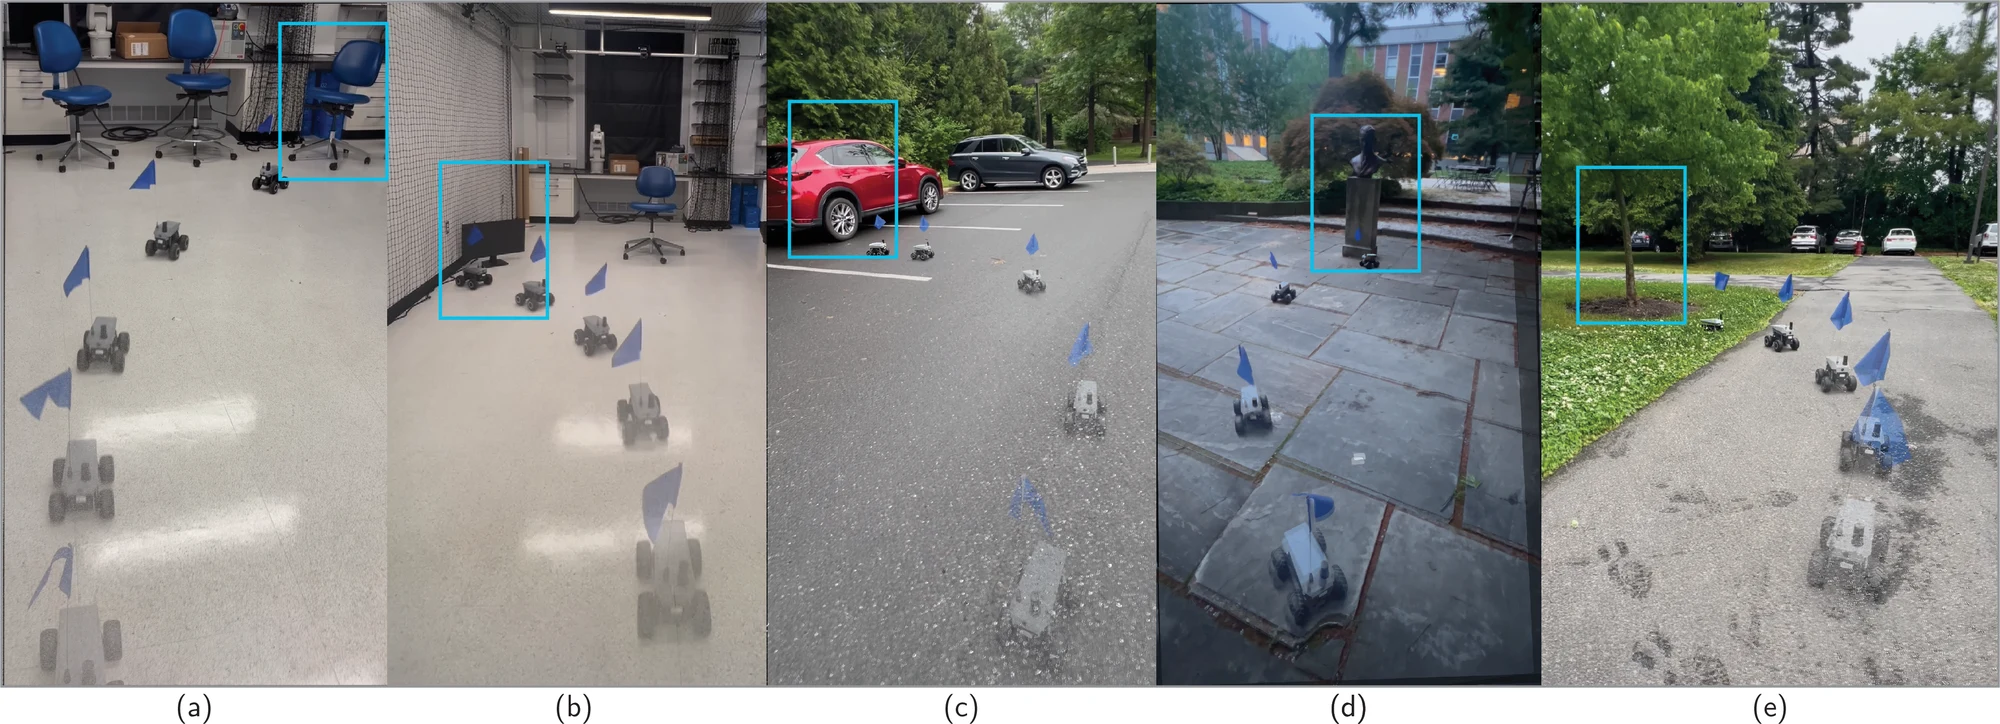
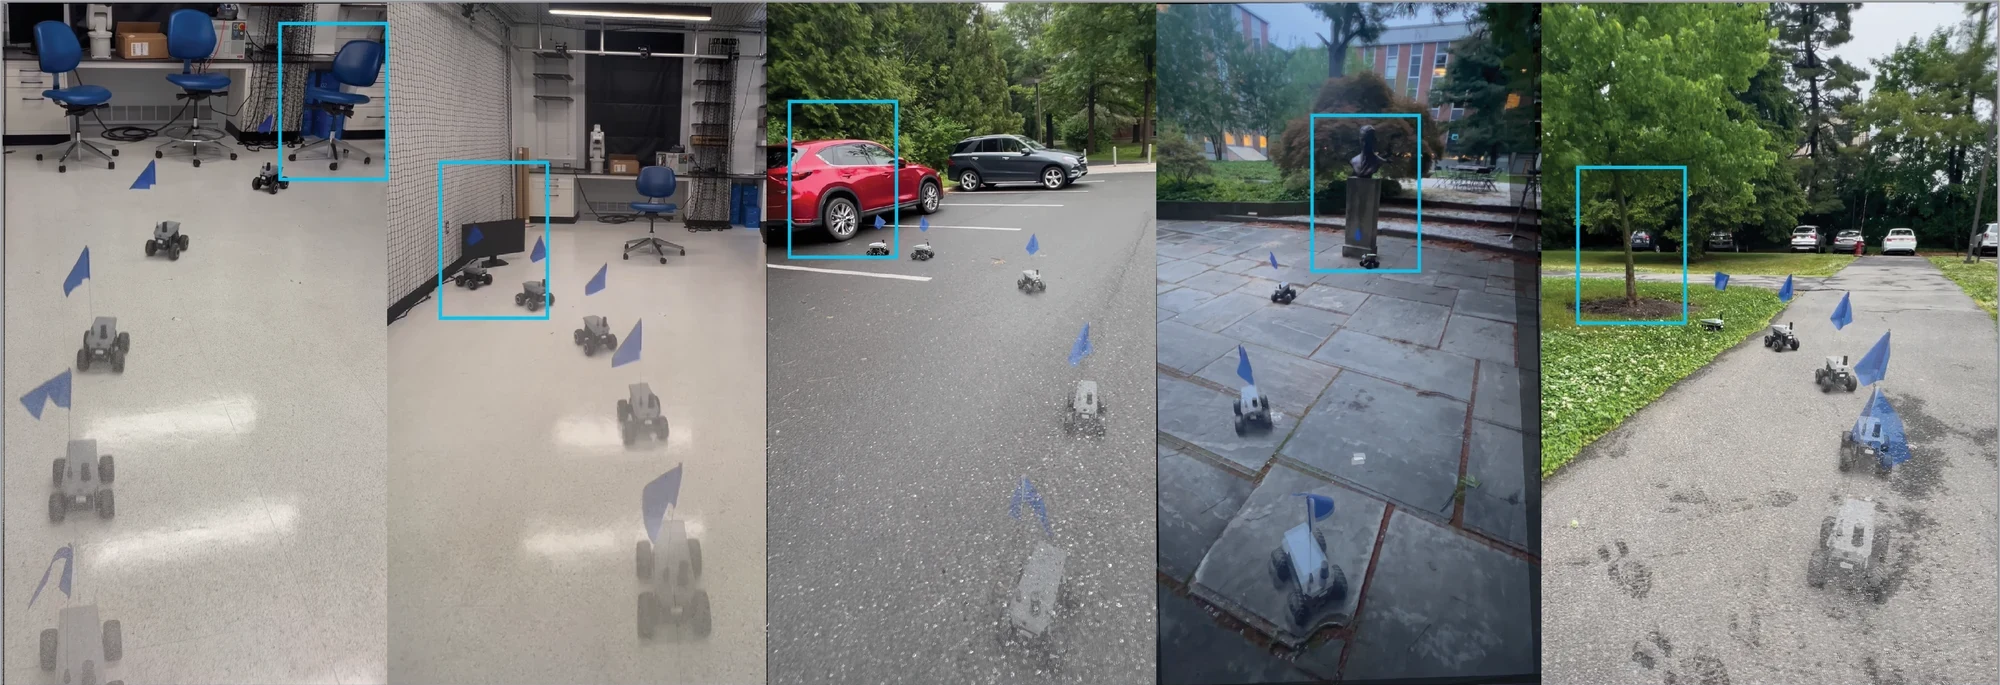
Update figures and playback; prepare GitHub Pages deploy
- Real-world wall and steerability clips autoplay and loop even under
  reduced motion (click / Space still pauses wall clips)
- Steerability: picker above the video instead of beside it; prompt
  composite split into color / direction / object panels
- Reasoning: four new examples (left/right chair, red car, statue)
  in a 2x2 grid; subtitle matches the Task / Perception / Planning fields
- Method: V8 training-overview figure (method_overview.webp)
- Rollout composite: drop the (a)-(e) label strip; reword caption
- Add .nojekyll and document the rsd-nav.github.io deploy in README

diff --git a/index.html b/index.html
@@ -21,7 +21,7 @@
     <link href="https://fonts.googleapis.com/css2?family=Inter:wght@400;500;600;700;800&family=JetBrains+Mono:wght@400;500&display=swap" rel="stylesheet">
     <link rel="stylesheet" href="https://cdnjs.cloudflare.com/ajax/libs/font-awesome/6.0.0/css/all.min.css">
     <link rel="stylesheet" href="https://cdn.jsdelivr.net/gh/jpswalsh/academicons@1/css/academicons.min.css">
-    <link rel="stylesheet" href="static/css/styles.css?v=41">
+    <link rel="stylesheet" href="static/css/styles.css?v=46">
 </head>
 <body id="top">
 
@@ -128,9 +128,9 @@
             <!-- Rollout composites; column widths follow the image aspect ratios so both rows match in height. -->
             <div class="composites">
                 <figure class="figure">
-                    <img src="assets/images/filmstrip.webp" loading="lazy" width="2000" height="725"
+                    <img src="assets/images/filmstrip.webp" loading="lazy" width="2000" height="685"
                          alt="Five time-lapse composites of the rover approaching boxed targets: a blue chair and a monitor indoors, and a red car, a statue and a tree outdoors.">
-                    <figcaption>Rollout composites on indoor (a, b) and outdoor (c&ndash;e) tasks; the box marks the target.</figcaption>
+                    <figcaption>Rollout composites on two indoor (left) and three outdoor (right) tasks; the box marks the target.</figcaption>
                 </figure>
                 <figure class="figure">
                     <img src="assets/images/multistage.webp" loading="lazy" width="2000" height="492"
@@ -341,14 +341,14 @@
             <!-- Static paper figures; column widths follow the image aspect ratios so heights match. -->
             <div class="method-figs">
                 <figure class="figure paper">
-                    <img src="assets/images/motivation.webp" loading="lazy" width="2000" height="818"
+                    <img src="assets/images/motivation.webp" loading="lazy" width="2000" height="822"
                          alt="Diagram: the same VLM acts as student and self-teacher. Both see the camera input; only the self-teacher also receives privileged information. Their outputs are compared, and the resulting paths are drawn toward a red car.">
                     <figcaption>One VLM, two roles: the self-teacher also receives privileged information
                         (the demonstrated trajectory); the student does not.</figcaption>
                 </figure>
                 <figure class="figure paper">
-                    <img src="assets/images/method.webp" loading="lazy" width="2000" height="772"
-                         alt="Training pipeline. Top: the Self-Teacher VLM (Qwen2.5-3B) takes the GT trajectory, a self-teacher prompt and the image with the path drawn on it, and outputs a goal, perception, plan and trajectory. Bottom: the Student VLM (Qwen2.5-3B) takes the raw image, a student prompt and the extracted goal, and outputs perception, plan and trajectory.">
+                    <img src="assets/images/method_overview.webp" loading="lazy" width="2400" height="940"
+                         alt="Training pipeline. Top: the Self-Teacher VLM (Qwen3.5-VL-9B) takes the GT trajectory, a self-teacher prompt and the image with the path drawn on it, and outputs a goal, perception and plan. Bottom: the Student VLM (Qwen3.5-VL-9B) takes the raw image, a student prompt and the extracted goal, and outputs perception, plan and trajectory. A KL term matches the student's reasoning to the teacher's, a CE term fits its trajectory to the GT, and an EMA link connects the two VLMs.">
                     <figcaption>Training overview. The self-teacher (top) sees the demonstrated (GT) trajectory and extracts the
                         goal and reasoning; the student (bottom) sees only the image, its prompt, and the extracted goal.</figcaption>
                 </figure>
@@ -388,9 +388,16 @@
                 </div>
             </div>
 
+            <!-- One panel per prompt family; column widths follow the image aspect ratios so heights match. -->
             <figure class="figure figure-wide">
-                <img src="assets/images/steerability.webp" loading="lazy" width="2000" height="331"
-                     alt="Composite rollouts in one lab scene for three prompt families: navigate to the black or blue chair; to the chair on the left, middle or right; and to the trash bin, monitor or chair. A box marks each target.">
+                <div class="steer-strip">
+                    <img src="assets/images/steer_color.webp" loading="lazy" width="496" height="330"
+                         alt="Navigate to the black or blue chair: two composite rollouts, each ending at the boxed chair of that color.">
+                    <img src="assets/images/steer_direction.webp" loading="lazy" width="742" height="330"
+                         alt="Navigate to the chair on the left, middle or right: three composite rollouts, each ending at the boxed chair in that position.">
+                    <img src="assets/images/steer_object.webp" loading="lazy" width="743" height="330"
+                         alt="Navigate to the trash bin, monitor or chair: three composite rollouts, each ending at the boxed object.">
+                </div>
                 <figcaption>All eight prompts at a glance &mdash; color, direction, and object &mdash; in the same scene.</figcaption>
             </figure>
         </div>
@@ -401,31 +408,42 @@
         <div class="wrap">
             <p class="eyebrow">Explainable actions</p>
             <h2 class="section-title">Reasoning</h2>
-            <p class="section-sub">Each action comes with a short trace covering perception, prediction, and planning.
-                Click a trace to replay it.</p>
+            <p class="section-sub">Each action comes with a short trace covering the task, perception, and planning.</p>
             <div class="reasoning-grid">
                 <figure class="reasoning-card">
-                    <img src="assets/images/reasoning_chair.webp" loading="lazy" width="450" height="253"
-                         alt="Robot camera view of two chairs, one with a black bag; the predicted path curves right toward it.">
+                    <img src="assets/images/reasoning_left.webp" loading="lazy" width="1081" height="608"
+                         alt="Robot camera view of blue office chairs along a lab workbench; the leftmost chair is boxed and the predicted path curves left toward it.">
                     <div class="trace" data-typewriter>
-                        <p><b>Task:</b> Navigate to the <em>chair with a black bag on it</em></p>
-                        <p><b>Perception:</b> The scene shows an indoor office space with carpeted floors and walls. <em>There are two chairs visible, one with a black bag on it.</em> The robot is positioned near the edge of the room, facing towards the chairs.</p>
-                        <p><b>Agents:</b> <em>Two chairs, one with a black bag on it.</em></p>
-                        <p><b>Prediction:</b> The robot is likely stationary or moving slowly, as there are no visible signs of motion or interaction with the environment.</p>
-                        <p><b>Planning:</b> The robot should <em>navigate towards the chair with the black bag</em>. This involves <em>turning slightly to the right</em> to align with the target chair.</p>
-                        <p class="traj"><b>Trajectory:</b> {"future_trajectory": [[0.093, -0.008], [0.461, -0.06], [0.811, -0.172], [1.131, -0.331], [1.429, -0.531], [1.713, -0.74], [2.011, -0.943], [2.31, -1.139], [2.621, -1.331], [2.921, -1.513], [3.221, -1.711], &hellip;]}</p>
+                        <p><b>Task:</b> Navigate to the <em>chair on the left</em></p>
+                        <p><b>Perception:</b> The ground surface is a smooth, light-colored floor with a speckled texture. Ahead of the robot, there is a large expanse of open space leading to a white wall on the far side. Along the wall, there is a long workbench with a dark surface, and <em>two blue office chairs with metal bases are positioned in front of it</em>.</p>
+                        <p><b>Planning:</b> <b><em>Turn left</em>.</b> This movement is right because the floor surface remains level and open across the entire area ahead of the robot, allowing the vehicle to pivot freely. <em>The path leads directly toward the open region in front of the workbench and the blue office chairs</em>, which are situated along the trajectory.</p>
                     </div>
                 </figure>
                 <figure class="reasoning-card">
-                    <img src="assets/images/reasoning_bag.webp" loading="lazy" width="449" height="253"
-                         alt="Robot camera view of a backpack on the left while a person waves a red pool noodle on the right; the predicted path heads to the backpack.">
+                    <img src="assets/images/reasoning_right.webp" loading="lazy" width="1081" height="608"
+                         alt="Robot camera view of three blue office chairs in front of white cabinets; the rightmost chair is boxed and the predicted path curves right toward it.">
                     <div class="trace" data-typewriter>
-                        <p><b>Task:</b> Navigate to the <em>brown bag</em></p>
-                        <p><b>Perception:</b> A white floor with a few scattered objects, <em>including a backpack and a red object.</em> The scene appears to be indoors, possibly in a laboratory or office setting. <em>The backpack is positioned near the bottom left of the image, and the red object is closer to the center-right.</em></p>
-                        <p><b>Agents:</b> A backpack and a red object are visible on the floor.</p>
-                        <p><b>Prediction:</b> The backpack is likely stationary, as it is not moving. <em>The red object might be moving slightly,</em> but its motion is unclear due to the limited frame.</p>
-                        <p><b>Planning:</b> <em>The robot should navigate towards the backpack. The backpack is clearly visible and located near the bottom left of the image.</em> Maintaining direction keeps the robot centered on the path leading to the backpack.</p>
-                        <p class="traj"><b>Trajectory:</b> {"future_trajectory": [[0.038, -0.009], [0.187, -0.041], [0.327, -0.066], [0.458, -0.081], [0.58, -0.084], [0.695, -0.074], [0.805, -0.05], [0.912, -0.02], [1.017, 0.041], [1.122, 0.107], [1.228, 0.186], &hellip;]}</p>
+                        <p><b>Task:</b> Navigate to the <em>chair on the right</em></p>
+                        <p><b>Perception:</b> The ground surface is a smooth, light-colored floor with a speckled texture. Ahead of the robot, there is a large expanse of open space leading to a row of white cabinets and shelving units mounted on the wall. <em>Three blue office chairs with metal bases are positioned in front of the cabinets</em>.</p>
+                        <p><b>Planning:</b> <b><em>Turn right</em>.</b> This motion is sensible because the floor surface remains level and open across the entire area ahead of the robot, allowing the vehicle to pivot freely. <em>The path leads directly toward the blue office chair that is situated in front of the white cabinets</em>, ensuring the robot stays on the open floor and moves toward that specific object.</p>
+                    </div>
+                </figure>
+                <figure class="reasoning-card">
+                    <img src="assets/images/reasoning_car.webp" loading="lazy" width="1081" height="608"
+                         alt="Robot camera view of a parking lot with a red car boxed on the left; the predicted path bends left toward it.">
+                    <div class="trace" data-typewriter>
+                        <p><b>Task:</b> Navigate to the <em>red car</em></p>
+                        <p><b>Perception:</b> The ground surface is dark gray asphalt. A large building with a flat facade and lit windows is visible in the distance. Dense rows of trees line the area behind the paved surface. There is a wide expanse of open pavement stretching out into the foreground, with no obstacles breaking the view toward the building and <em>the parked vehicles</em>.</p>
+                        <p><b>Planning:</b> <b><em>Turn left</em>.</b> This motion is right because the asphalt surface remains level and open, allowing the vehicle to pivot freely without encountering any obstacles. <em>The path leads directly toward the red car</em>, which is positioned on the pavement in the region where the vehicle must turn to align with the open space ahead.</p>
+                    </div>
+                </figure>
+                <figure class="reasoning-card">
+                    <img src="assets/images/reasoning_statue.webp" loading="lazy" width="1081" height="608"
+                         alt="Robot camera view across concrete slabs toward a brick building; a stone statue is boxed on the left and the predicted path curves left toward it.">
+                    <div class="trace" data-typewriter>
+                        <p><b>Task:</b> Navigate to the <em>statue</em></p>
+                        <p><b>Perception:</b> The ground surface consists of large, flat concrete slabs with visible seams running across the terrain. Ahead of the robot, the open space is extensive, leading toward a large brick building with multiple stories and a dense cluster of trees with full canopies. <em>A stone monument stands clearly visible in the distance</em>, situated on the same level paved surface.</p>
+                        <p><b>Planning:</b> <b><em>Turn left</em>.</b> This movement is right because the concrete pavement remains level and continuous in the direction the operator has chosen, <em>allowing the robot to proceed unimpeded toward the stone monument</em>. The open expanse of the paved area extends fully toward the monument, ensuring the path stays clear of the large trees and the brick building that define the far side of the scene.</p>
                     </div>
                 </figure>
             </div>
@@ -571,6 +589,6 @@
         <div class="wrap">Website template adapted from <a href="https://github.com/nerfies/nerfies.github.io">Nerfies</a>.</div>
     </footer>
 
-    <script src="static/js/main.js?v=21"></script>
+    <script src="static/js/main.js?v=23"></script>
 </body>
 </html>

diff --git a/static/css/styles.css b/static/css/styles.css
@@ -475,7 +475,7 @@ code { font-family: 'JetBrains Mono', monospace; font-size: 0.9em; }
 .composites {
     margin-top: 44px;
     display: grid;
-    grid-template-columns: 2.759fr 4.065fr;
+    grid-template-columns: 2.920fr 4.065fr;
     gap: 18px;
     align-items: start;
 }
@@ -1161,7 +1161,7 @@ code { font-family: 'JetBrains Mono', monospace; font-size: 0.9em; }
 .method-figs {
     margin-top: 56px;
     display: grid;
-    grid-template-columns: 2.445fr 2.591fr;
+    grid-template-columns: 2.433fr 2.553fr;
     gap: 20px;
     align-items: start;
 }
@@ -1172,21 +1172,30 @@ code { font-family: 'JetBrains Mono', monospace; font-size: 0.9em; }
 
 /* ---------- Steerability ---------- */
 
+/* Stacked: prompt picker on top, the rollout centred below it. */
 .steer {
     margin: 44px auto 0;
     max-width: 1320px;
-    display: grid;
-    grid-template-columns: minmax(0, 1fr) auto;
+    display: flex;
+    flex-direction: column;
     align-items: center;
-    gap: 56px;
+    gap: 28px;
+}
+
+.steer-controls {
+    display: flex;
+    flex-direction: column;
+    align-items: center;
+    width: 100%;
 }
 
 .steer-tabs .seg-btn { padding: 9px 20px; font-size: 0.98rem; }
 
 .steer-prompts {
-    margin-top: 22px;
+    margin-top: 18px;
     display: flex;
-    flex-direction: column;
+    flex-wrap: wrap;
+    justify-content: center;
     gap: 12px;
 }
 
@@ -1195,7 +1204,7 @@ code { font-family: 'JetBrains Mono', monospace; font-size: 0.9em; }
     font-family: 'JetBrains Mono', monospace;
     font-size: 1rem;
     text-align: left;
-    padding: 16px 20px 16px 22px;
+    padding: 14px 20px;
     border: 1.5px solid var(--rule);
     border-radius: 12px;
     color: var(--ink-2);
@@ -1207,26 +1216,28 @@ code { font-family: 'JetBrains Mono', monospace; font-size: 0.9em; }
 .steer-prompt::before { content: "\201C"; }
 .steer-prompt::after { content: "\201D"; }
 
-.steer-prompt:hover { border-color: #f3b670; transform: translateX(4px); }
+.steer-prompt:hover { border-color: #f3b670; transform: translateY(-2px); }
 
 .steer-prompt.is-active {
     color: var(--accent-text);
     border-color: var(--accent);
     background: var(--accent-soft);
-    box-shadow: inset 4px 0 0 var(--accent), 0 0 0 4px rgba(231, 117, 0, 0.12), 0 12px 28px -16px var(--accent-glow);
-    transform: translateX(4px);
+    box-shadow: inset 0 -3px 0 var(--accent), 0 0 0 4px rgba(231, 117, 0, 0.12), 0 12px 28px -16px var(--accent-glow);
+    transform: translateY(-2px);
 }
 
 .steer-stage {
     display: flex;
     justify-content: center;
+    width: 100%;
 }
 
-/* Clips are 8:9 portrait: size by height so the whole frame stays on screen.
-   Two stacked videos crossfade via .is-on. */
+/* Clips are 8:9 portrait: size by height so the picker above and the whole
+   frame fit on screen together. Two stacked videos crossfade via .is-on. */
 .steer-screen {
     position: relative;
-    height: min(80vh, 780px);
+    height: clamp(360px, calc(100vh - 240px), 700px);
+    height: clamp(360px, calc(100svh - 240px), 700px);
     max-width: 100%;
     aspect-ratio: 8 / 9;
     overflow: hidden;
@@ -1289,9 +1300,20 @@ code { font-family: 'JetBrains Mono', monospace; font-size: 0.9em; }
 
 .steer-stage .placeholder { width: min(540px, 100%); aspect-ratio: 8 / 9; }
 
+/* Color / direction / object composites side by side, stacked on phones. */
+.steer-strip {
+    display: grid;
+    grid-template-columns: 496fr 742fr 743fr;
+    gap: 14px;
+    align-items: start;
+}
+
+@media (max-width: 640px) {
+    .steer-strip { grid-template-columns: 1fr; gap: 10px; }
+}
+
 @media (max-width: 860px) {
-    .steer { grid-template-columns: 1fr; gap: 24px; }
-    .steer-tabs { margin: 0 auto; }
+    .steer { gap: 24px; }
     .steer-screen { height: auto; width: 100%; max-width: 520px; margin: 0 auto; }
 }
 
@@ -1592,6 +1614,7 @@ table.results-table.narrow { max-width: 520px; }
     .placeholder-fill { aspect-ratio: auto; min-height: 220px; }
     .seg-btn { padding: 7px 13px; font-size: 0.88rem; }
     .steer-tabs .seg-btn { padding: 8px 14px; font-size: 0.9rem; }
+    .steer-prompts { flex-direction: column; align-self: stretch; }
     .steer-prompt { font-size: 0.9rem; padding: 13px 16px; }
 }
 
@@ -1599,6 +1622,4 @@ table.results-table.narrow { max-width: 520px; }
     html { scroll-behavior: auto; }
     *, *::before, *::after { transition: none !important; animation: none !important; }
     .reveal { opacity: 1; }
-    /* Clips show native controls here, so lift the label chip off the control bar. */
-    .vid-cap { top: 10px; bottom: auto; }
 }

diff --git a/static/js/main.js b/static/js/main.js
@@ -83,16 +83,17 @@
     /* ------------------------------------------------------------------
      * Videos: load only when near the viewport; autoplay muted and loop
      * (each clip plays through), pause off-screen and resume when back.
+     * The wall autoplays even under reduced motion (a deliberate choice);
+     * click or Space/Enter still pauses any clip.
      * ------------------------------------------------------------------ */
     (function lazyVideos() {
         const videos = Array.from(document.querySelectorAll('video[data-src]'));
-        if (reduceMotion) videos.forEach(v => { v.controls = true; });
 
         const io = new IntersectionObserver(entries => {
             for (const { target: v, isIntersecting } of entries) {
                 if (isIntersecting) {
                     if (!v.src) { v.src = v.dataset.src; v.preload = 'auto'; }
-                    if (!reduceMotion) v.play().catch(() => {});
+                    v.play().catch(() => {});
                 } else if (!v.paused) {
                     v.pause();
                 }
@@ -104,7 +105,6 @@
             // No visible controls on the looping clips, so a click (or Space/Enter) toggles playback.
             const toggle = () => { if (v.paused) v.play().catch(() => {}); else v.pause(); };
             v.addEventListener('click', toggle);
-            if (reduceMotion) return;
             v.tabIndex = 0;
             v.addEventListener('keydown', e => {
                 if (e.key === ' ' || e.key === 'Enter') { e.preventDefault(); toggle(); }
@@ -220,7 +220,8 @@
      * Clips live at assets/video/steer/<group>_<key>.mp4. A missing clip
      * shows a placeholder, so new files only need to be dropped in.
      * Two stacked <video>s crossfade: the next clip loads into the hidden
-     * one and fades in once it has data.
+     * one and fades in once it has data. Like the wall, it autoplays and
+     * loops even under reduced motion (a deliberate choice).
      * ------------------------------------------------------------------ */
     const STEER = {
         object: [
@@ -254,8 +255,6 @@
         let front = vids[0];
         let token = 0;
         let inView = false;
-
-        if (reduceMotion) vids.forEach(v => { v.controls = true; });
 
         function showPlaceholder(item, src) {
             screen.hidden = true;
@@ -299,7 +298,7 @@
                 cap.textContent = item.prompt;
                 v.currentTime = 0;
                 bringToFront(v);
-                if (!reduceMotion && inView) v.play().catch(() => {});
+                if (inView) v.play().catch(() => {});
             };
             v.onerror = () => { if (mine === token) showPlaceholder(item, src); };
             v.poster = 'assets/images/posters/steer_' + group + '_' + item.key + '.jpg';
@@ -319,7 +318,6 @@
         // Only play while the stage is on screen.
         new IntersectionObserver(([e]) => {
             inView = e.isIntersecting;
-            if (reduceMotion) return;
             if (inView) front.play().catch(() => {}); else front.pause();
         }, { threshold: 0.2 }).observe(root);
 

diff --git a/README.md b/README.md
@@ -5,13 +5,14 @@ contains only the website, with no shared history with `main`.
 
 ## Viewing it
 
-The page uses relative paths and no build step, but it must be served over HTTP
-rather than opened as a `file://` URL — browsers block video playback and some
-asset loads otherwise.
+Live at <https://rsd-nav.github.io/>, served by GitHub Pages from the `main`
+branch of [`rsd-nav/rsd-nav.github.io`](https://github.com/rsd-nav/rsd-nav.github.io).
+`.nojekyll` makes Pages publish the files as-is (no Jekyll build).
+
+To preview locally, serve the folder over HTTP rather than opening it as a
+`file://` URL (browsers block video playback and some asset loads otherwise):
 
 ```bash
-git clone -b website-v2 https://github.com/fengb2-coder/self-distilled-reasoning-planning site
-cd site
 python3 -m http.server 8000
 ```
 
@@ -20,6 +21,15 @@ Then open <http://localhost:8000>.
 `python3 -m http.server` does not support HTTP range requests, so the explainer
 video cannot be scrubbed locally (and may not play in Safari). This is a
 limitation of the local server only; GitHub Pages serves it normally.
+
+## Deploying
+
+Commit on `websitev3`, then push it to the Pages repo's `main`; the site
+updates within a minute or two:
+
+```bash
+git push pages websitev3:main   # remote "pages" = https://github.com/rsd-nav/rsd-nav.github.io.git
+```
 
 ## Layout
 
